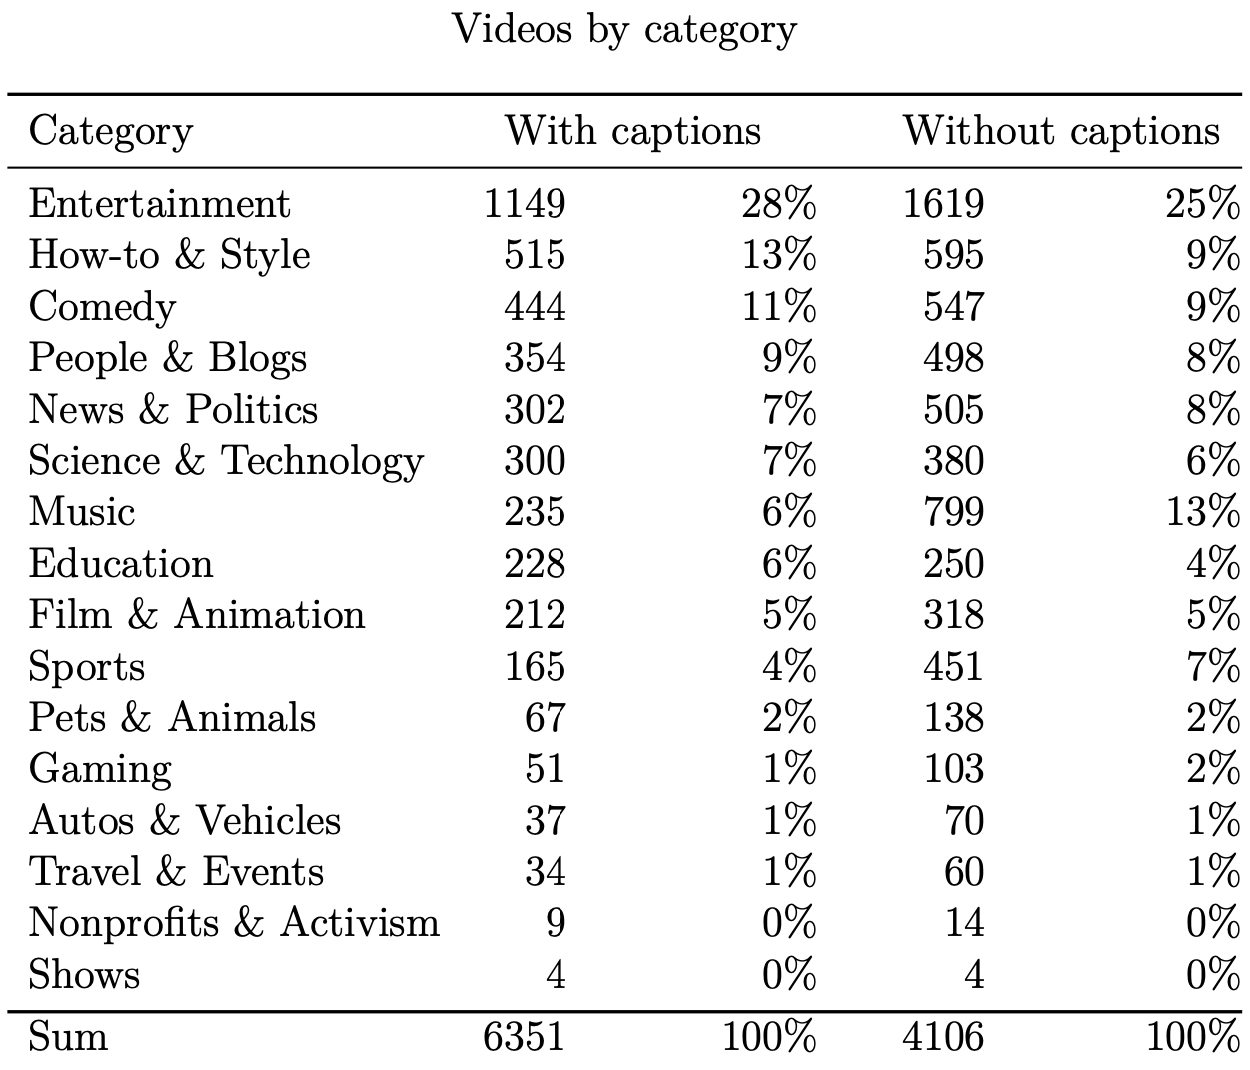
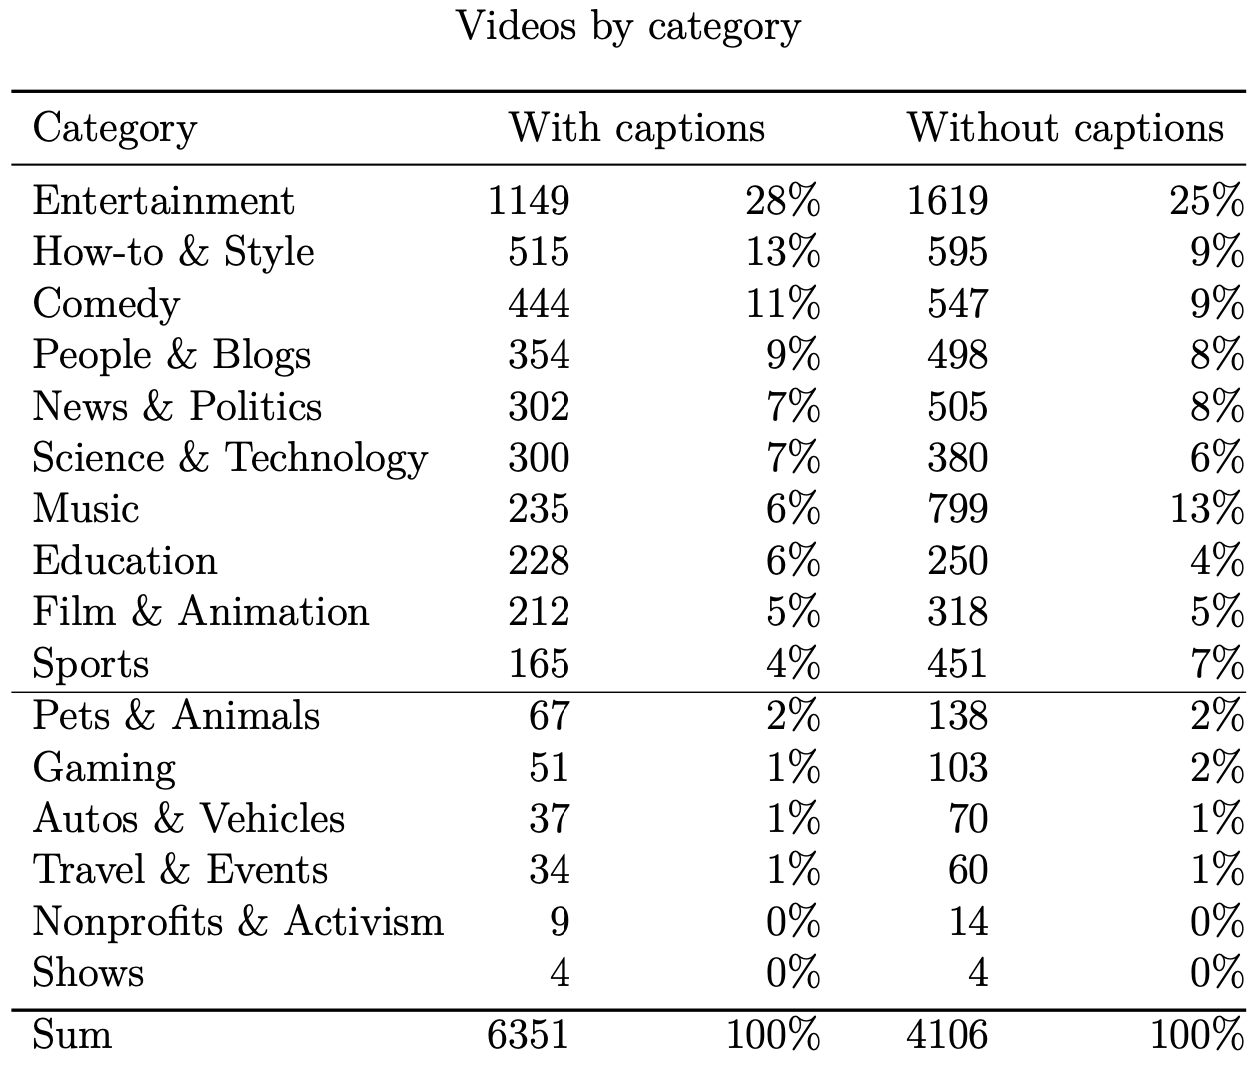
Finished presentation figures.

diff --git a/presentation/figures.tex b/presentation/figures.tex
@@ -85,6 +85,7 @@
     Education               & 228   & 6   & & 250   & 4  \\ 
     Film \& Animation       & 212   & 5   & & 318   & 5  \\
     Sports                  & 165   & 4   & & 451   & 7  \\
+    \hline
     Pets \& Animals         & 67    & 2   & & 138   & 2  \\
     Gaming                  & 51    & 1   & & 103   & 2  \\
     Autos \& Vehicles       & 37    & 1   & & 70    & 1  \\
